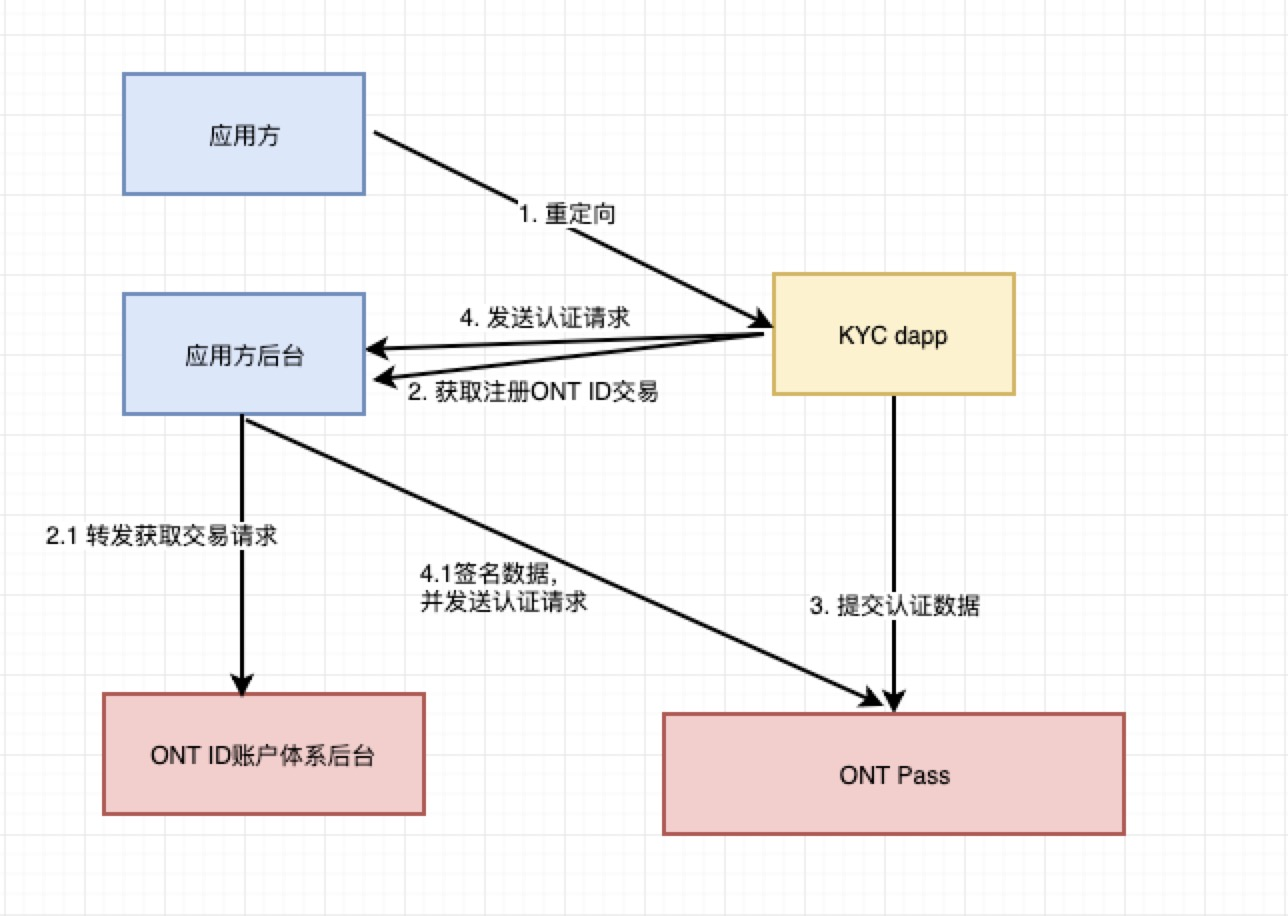
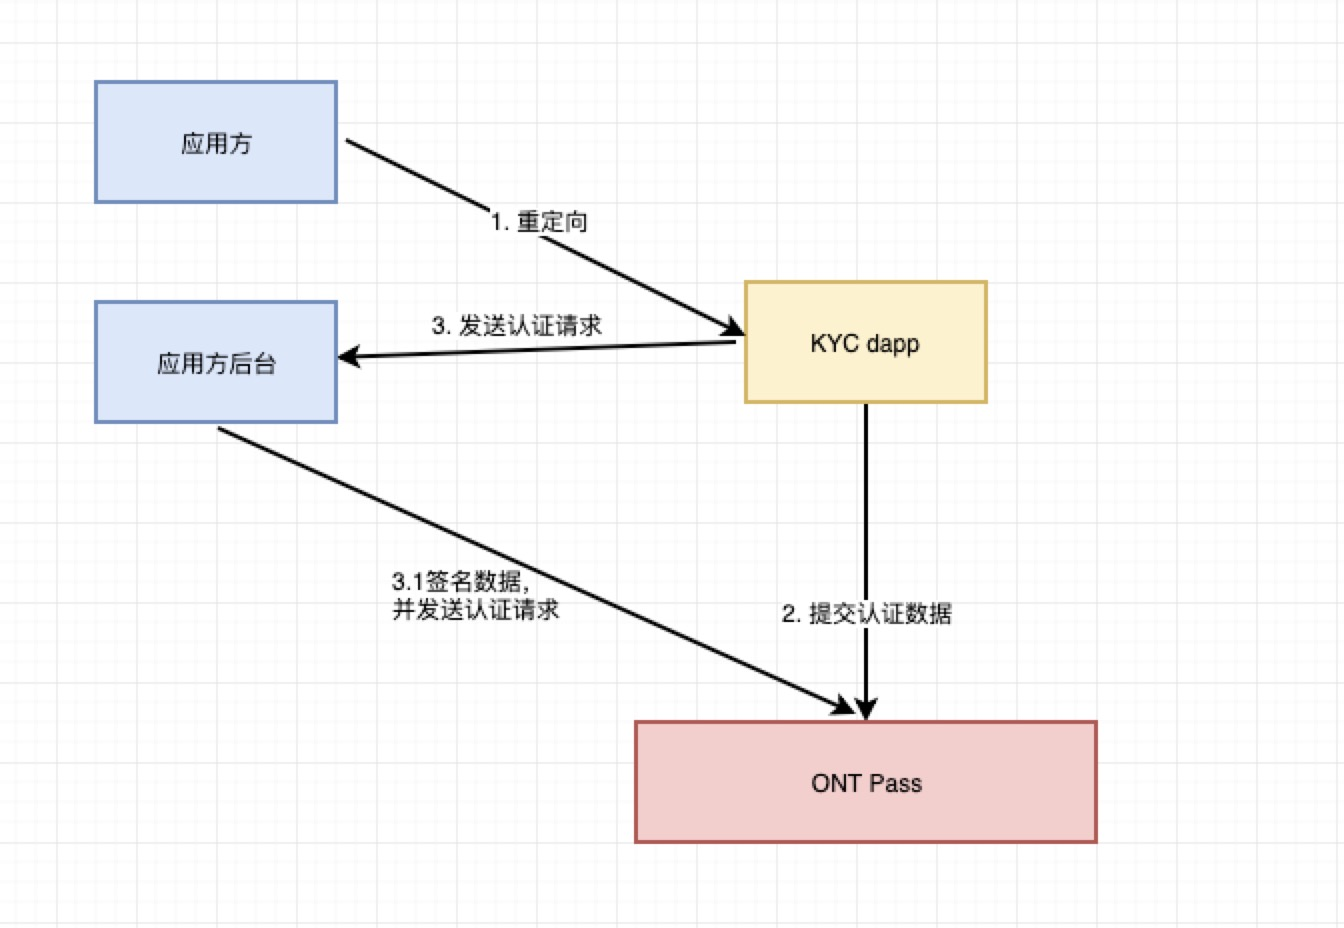
update kyc doc

Changed region(s): [[0.0311, 0.0611, 0.9006, 0.917], [0.5901, 0.8253, 0.7453, 0.8559]]

diff --git a/pro-website-docs/docs-cn/ontpass/ontid-kyc-h5.md b/pro-website-docs/docs-cn/ontpass/ontid-kyc-h5.md
@@ -18,15 +18,13 @@
 
 ### 2.1 认证
 
-1. 用户在ONT ID前端，使用手机号（或邮箱）注册ONT ID，ONT ID后台创建好注册ONT ID的交易并签名,并保存在数据库中
+1. 在应用场景中触发认证请求，重定向到KYC dapp h5（在url后附上用户ONT ID），如果该ONT ID已认证，则显示ONT ID信息，如果未认证，走认证流程
 
-2. 在应用场景中触发认证请求，重定向到KYC dapp h5（在url后附上用户ONT ID），如果该ONT ID已认证，则显示ONT ID信息，如果未认证，走认证流程
+2. 用户上传认证所需证件信息到ONT Pass
 
-3. KYC dapp调用ONT ID后端接口获取注册ONTID的交易，上传认证信息到ONT Pass（ONT Pass在审核通过后发送上链交易）；
+3. 提交[认证请求](http://pro-docs.ont.io/#/docs-cn/ontpass/overview)到ONT Pass。这个请求需要认证需求方的签名，即应用方的签名。KYC dapp发送相关数据给应用方后台，应用方后台添加上自己签名后，提交认证请求到ONT Pass。
 
-4. 提交[认证请求](http://pro-docs.ont.io/#/docs-cn/ontpass/overview)到ONT Pass。这个请求需要认证需求方的签名，即应用方的签名。KYC dapp发送相关数据给应用方后台，应用方后台添加上自己签名后，提交认证请求到ONT Pass，返回结果给KYC dapp。
-
-5.  KYC dapp显示等待审核页面。
+4. KYC dapp显示等待审核页面。
 
    ![cert](https://raw.githubusercontent.com/ontio/documentation/master/pro-website-docs/assets/kyc/certification.jpg)
 
@@ -52,12 +50,10 @@
 ### 3.1 跳转到KYC dapp认证页面
 
 ```
-url：host + /#/mgmtHome?ontid={ontid}&forwardCallback={transmitCallback}&requestAuthenticationCallback={requestAuthenticationCallback}
+url：host + /#/mgmtHome?ontid={ontid}&requestAuthenticationCallback={requestAuthenticationCallback}
 ```
 
 `ontid` User's ONT  ID
-
-`forwardCallback` 应用方后台用于转发请求的回调地址
 
 `requestAuthenticationCallback` 应用方后台用于提交认证请求的回调地址
 
@@ -79,36 +75,7 @@ url: host + /#/authHome?userOntid={userOntid}&dappOntid={dappOntid}&dappName={da
 
 ## 4. 应用方需要提供的接口
 
-### 4.1 转发KYC dapp的请求
-
-ONT ID后台的访问需要通过HMAC校验。KYC dapp不能直接访问ONT ID后台接口，所以需要通过应用方提供的接口转发请求。
-
-应用方收到请求后，转发请求到ONT ID后台。需要对转发请求做HMAC处理。转发的地址是参数中的url。
-
-### POST
-
-```
-url: 由应用方传给KYC dapp(比如http://host+ /forwardRequest)
-```
-
-### REQUEST
-
-| Field_Name | Required | Format | Description                                                |
-| ---------- | -------- | ------ | ---------------------------------------------------------- |
-| url        | Yes      | String | 需要转发的接口（ONT ID后台提供的接口）                     |
-| data       | Yes      | String | 使用RSA/AES加密后的参数                                    |
-| secure     | Yes      | String | RSA 加密的key。转发请求时放到请求的header中 secure-key字段 |
-
-### RESPONSE
-
-| Field_Name | Format | Description                             |
-| ---------- | ------ | --------------------------------------- |
-| version    | String | 版本号，目前是1.0。                     |
-| action     | String | 固定值：TransmitRequest。               |
-| desc       | String | 错误信息。成功即SUCCESS，其他即错误信息 |
-| result     | String | ONT ID后台返回的结果                    |
-
-### 4.2 处理授权请求回调
+### 4.1 处理授权请求回调
 
 授权时，用户发送授权信息（使用ONT ID后台公钥加密的）给应用方后台。应用方转发给ONT ID后台解密，得到Claim，对Claim验证，验证成功，则授权成功。返回授权结果给KYC dapp。
 
@@ -135,7 +102,7 @@ url: 由应用方传给KYC dapp(比如http://host + /handleAuth)
 | desc       | String | 错误信息。成功即SUCCESS，其他即错误信息 |
 | result     | String | 应用方后台验证授权Claim的结果。         |
 
-### 4.3 应用方提交认证请求
+### 4.2 应用方提交认证请求
 
 > 目前测试环境，由KYC dapp提交认证请求；生产环境由应用方后台提交认证请求。
 
@@ -195,36 +162,7 @@ KYC dapp发送给应用方后台的数据如下：
 
 ## 5. ONT ID后台需要提供的接口
 
-> 注意：ONT ID接口接收的参数都是RSA/AES加密的。以下为接口说明中参数为解密后的参数。
-
-### 5.1 获取注册ONTID的交易
-
-通过ONT ID 获取ONT ID交易内容
-
-#### POST
-
-```
-url: /api/v1/ontid/gettx/register/ontid
-```
-
-### REQUEST
-
-| Field_Name | Required | Format | Description  |
-| ---------- | -------- | ------ | ------------ |
-| ontid      | yes      | string | 用户的ONT ID |
-
-
-### RESPONS
-
-| Field_Name | Format | Description                             |
-| ---------- | ------ | --------------------------------------- |
-| version    | String | 版本号，目前是1.0。                     |
-| action     | String | 固定值：getTx。                         |
-| error      | int    | 错误码                                  |
-| desc       | String | 错误信息。成功即SUCCESS，其他即错误信息 |
-| result     | String | 交易内容                                |
-
-### 5.2 解密Claim
+### 5.1 解密Claim
 
 通过Onid和密码解密claim
 
